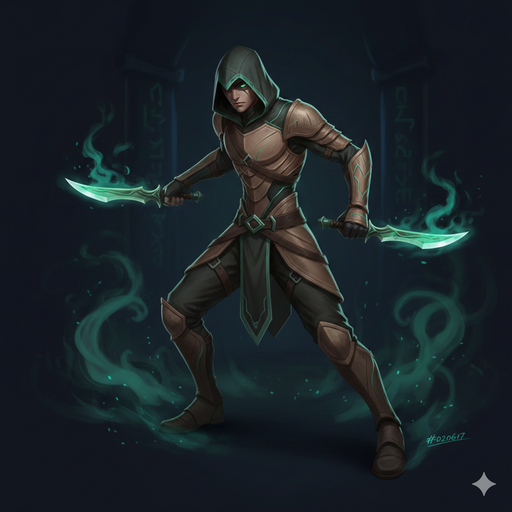
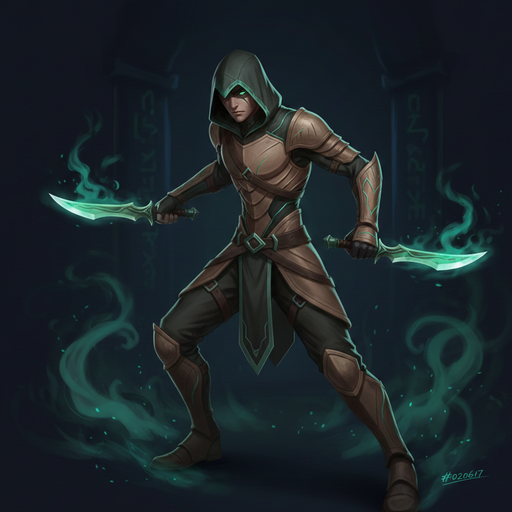
Fix character images: remove AI watermark, fix aspect ratio
- Center-crop landscape images (Base/Tank) to square instead of stretching
- Trim bottom 8% of all images to remove AI watermark
- Flatten RGBA to RGB with slate-950 background
- Use object-contain so full character is always visible

diff --git a/components/dashboard/user-profile.tsx b/components/dashboard/user-profile.tsx
@@ -144,7 +144,7 @@ export function UserProfile() {
                                     src={charSrc}
                                     alt={tier}
                                     fill
-                                    className="object-cover"
+                                    className="object-contain"
                                     priority
                                 />
                             </div>
